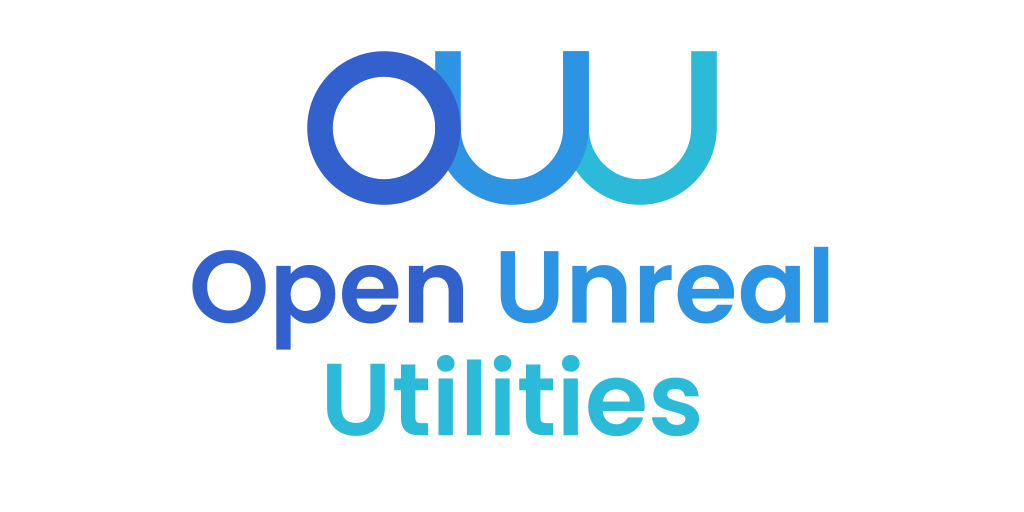
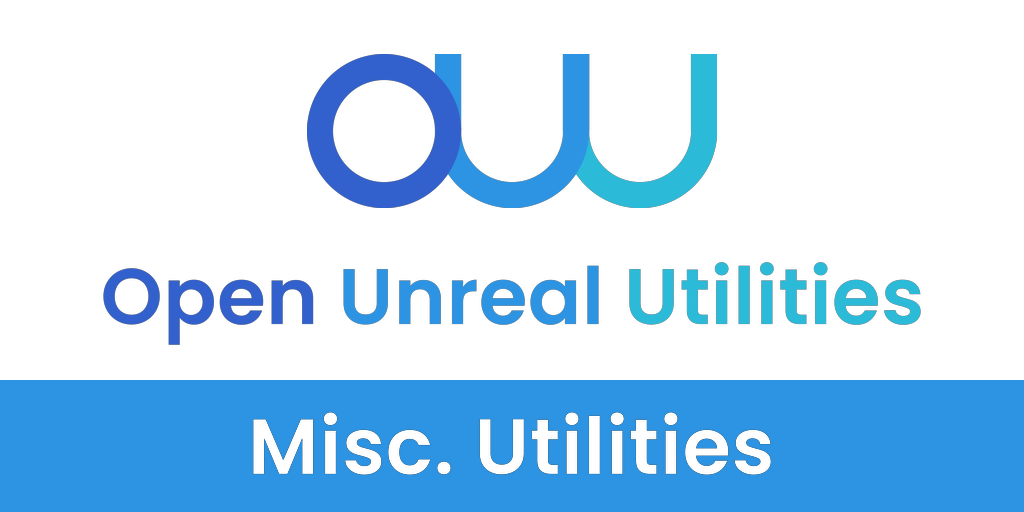
Adopt the shared Open Unreal Utilities identity
The family now shares one OUU monogram and is told apart by an accent
colour rather than a per-plugin third glyph. Artwork is generated by
Build/Scripts/Branding in the sample project.

- Icon128.png added: Unreal reads that exact name, so this plugin has
  been showing no icon in the plugin browser (it only had ouu128.png)
- Icon512 gains the accent band carrying the plugin name
- ouu_wide / ouu512_wide redrawn; the bare mark and square ouu*.png
  files are superseded and removed
- FriendlyName becomes the full "Open Unreal Utilities - Miscellaneous
  Utilities"; Category groups the family in the plugin browser
- README: matching title and a table linking every sibling plugin

diff --git a/README.md b/README.md
@@ -1,19 +1,27 @@
 
-# Open Unreal Utilities
+# Open Unreal Utilities - Miscellaneous Utilities
 
-![OUU logo](./Resources/ouu_wide.png)
+![Open Unreal Utilities - Misc. Utilities](./Resources/ouu_wide.png)
 
 The Open Unreal Utilities plugin is a collection of general purpose utilities in Unreal Engine developed by Jonas Reich and colleagues.
 
 I'm developing it during my day job(s) and squeeze all the small utilities in here that don't feel big enough for dedicated plugins and
 that are relatively generic and should prove useful for almost any game project.
 
-Some of those smaller utilities have since grown to the point where I decided to move them to dedicated plugins:
+Some of those smaller utilities have since grown to the point where I decided to move them to dedicated plugins.
+Together they make up the Open Unreal Utilities:
 
-- JSON data assets in [OUUJsonDataAssets](https://github.com/JonasReich/OUUJsonDataAssets) (requires Epic Games group to access).
-- Gameplay Tag Extensions in [OUUTags](https://github.com/JonasReich/OUUTags).
+| | |
+|---|---|
+| **Miscellaneous Utilities** | This plugin |
+| [**Gameplay Tags**](https://github.com/JonasReich/OUUTags) | Literal, typed and otherwise extended gameplay tags |
+| [**Json Data Assets**](https://github.com/JonasReich/OUUJsonDataAssets) | Data assets serialized to JSON text files (requires Epic Games group access) |
+| [**C++ Coding Standard**](https://github.com/JonasReich/OpenUnrealCodingStandard) | The Unreal C++ conventions these plugins adhere to |
+| [**Blueprint Validation**](https://github.com/JonasReich/OUUBlueprintValidation) | Blueprint graph validators |
+| [**Automation Tools**](https://github.com/JonasReich/OpenUnrealAutomationTools) | Python scripts for CI / build automation |
+| [**Sample Project**](https://github.com/JonasReich/OpenUnrealSampleProject) | An integration project that embeds all of the above as subrepos and is used for plugin development |
 
-## Contents
+## Plugin Contents
 
 ### Modules
 
@@ -59,7 +67,6 @@ The **bold** features are the big ones that I most reccommend you to try the plu
 	- One-line message log macros and Blueprint extension
 - Math
 	- ``USpiralIdUtilities`` Conversion to/from 2D grid coordinates to 1D index
-	- Small util functions
 - Misc
 	- Canvas graph plotting
 	- Easy to use regex wrappers
